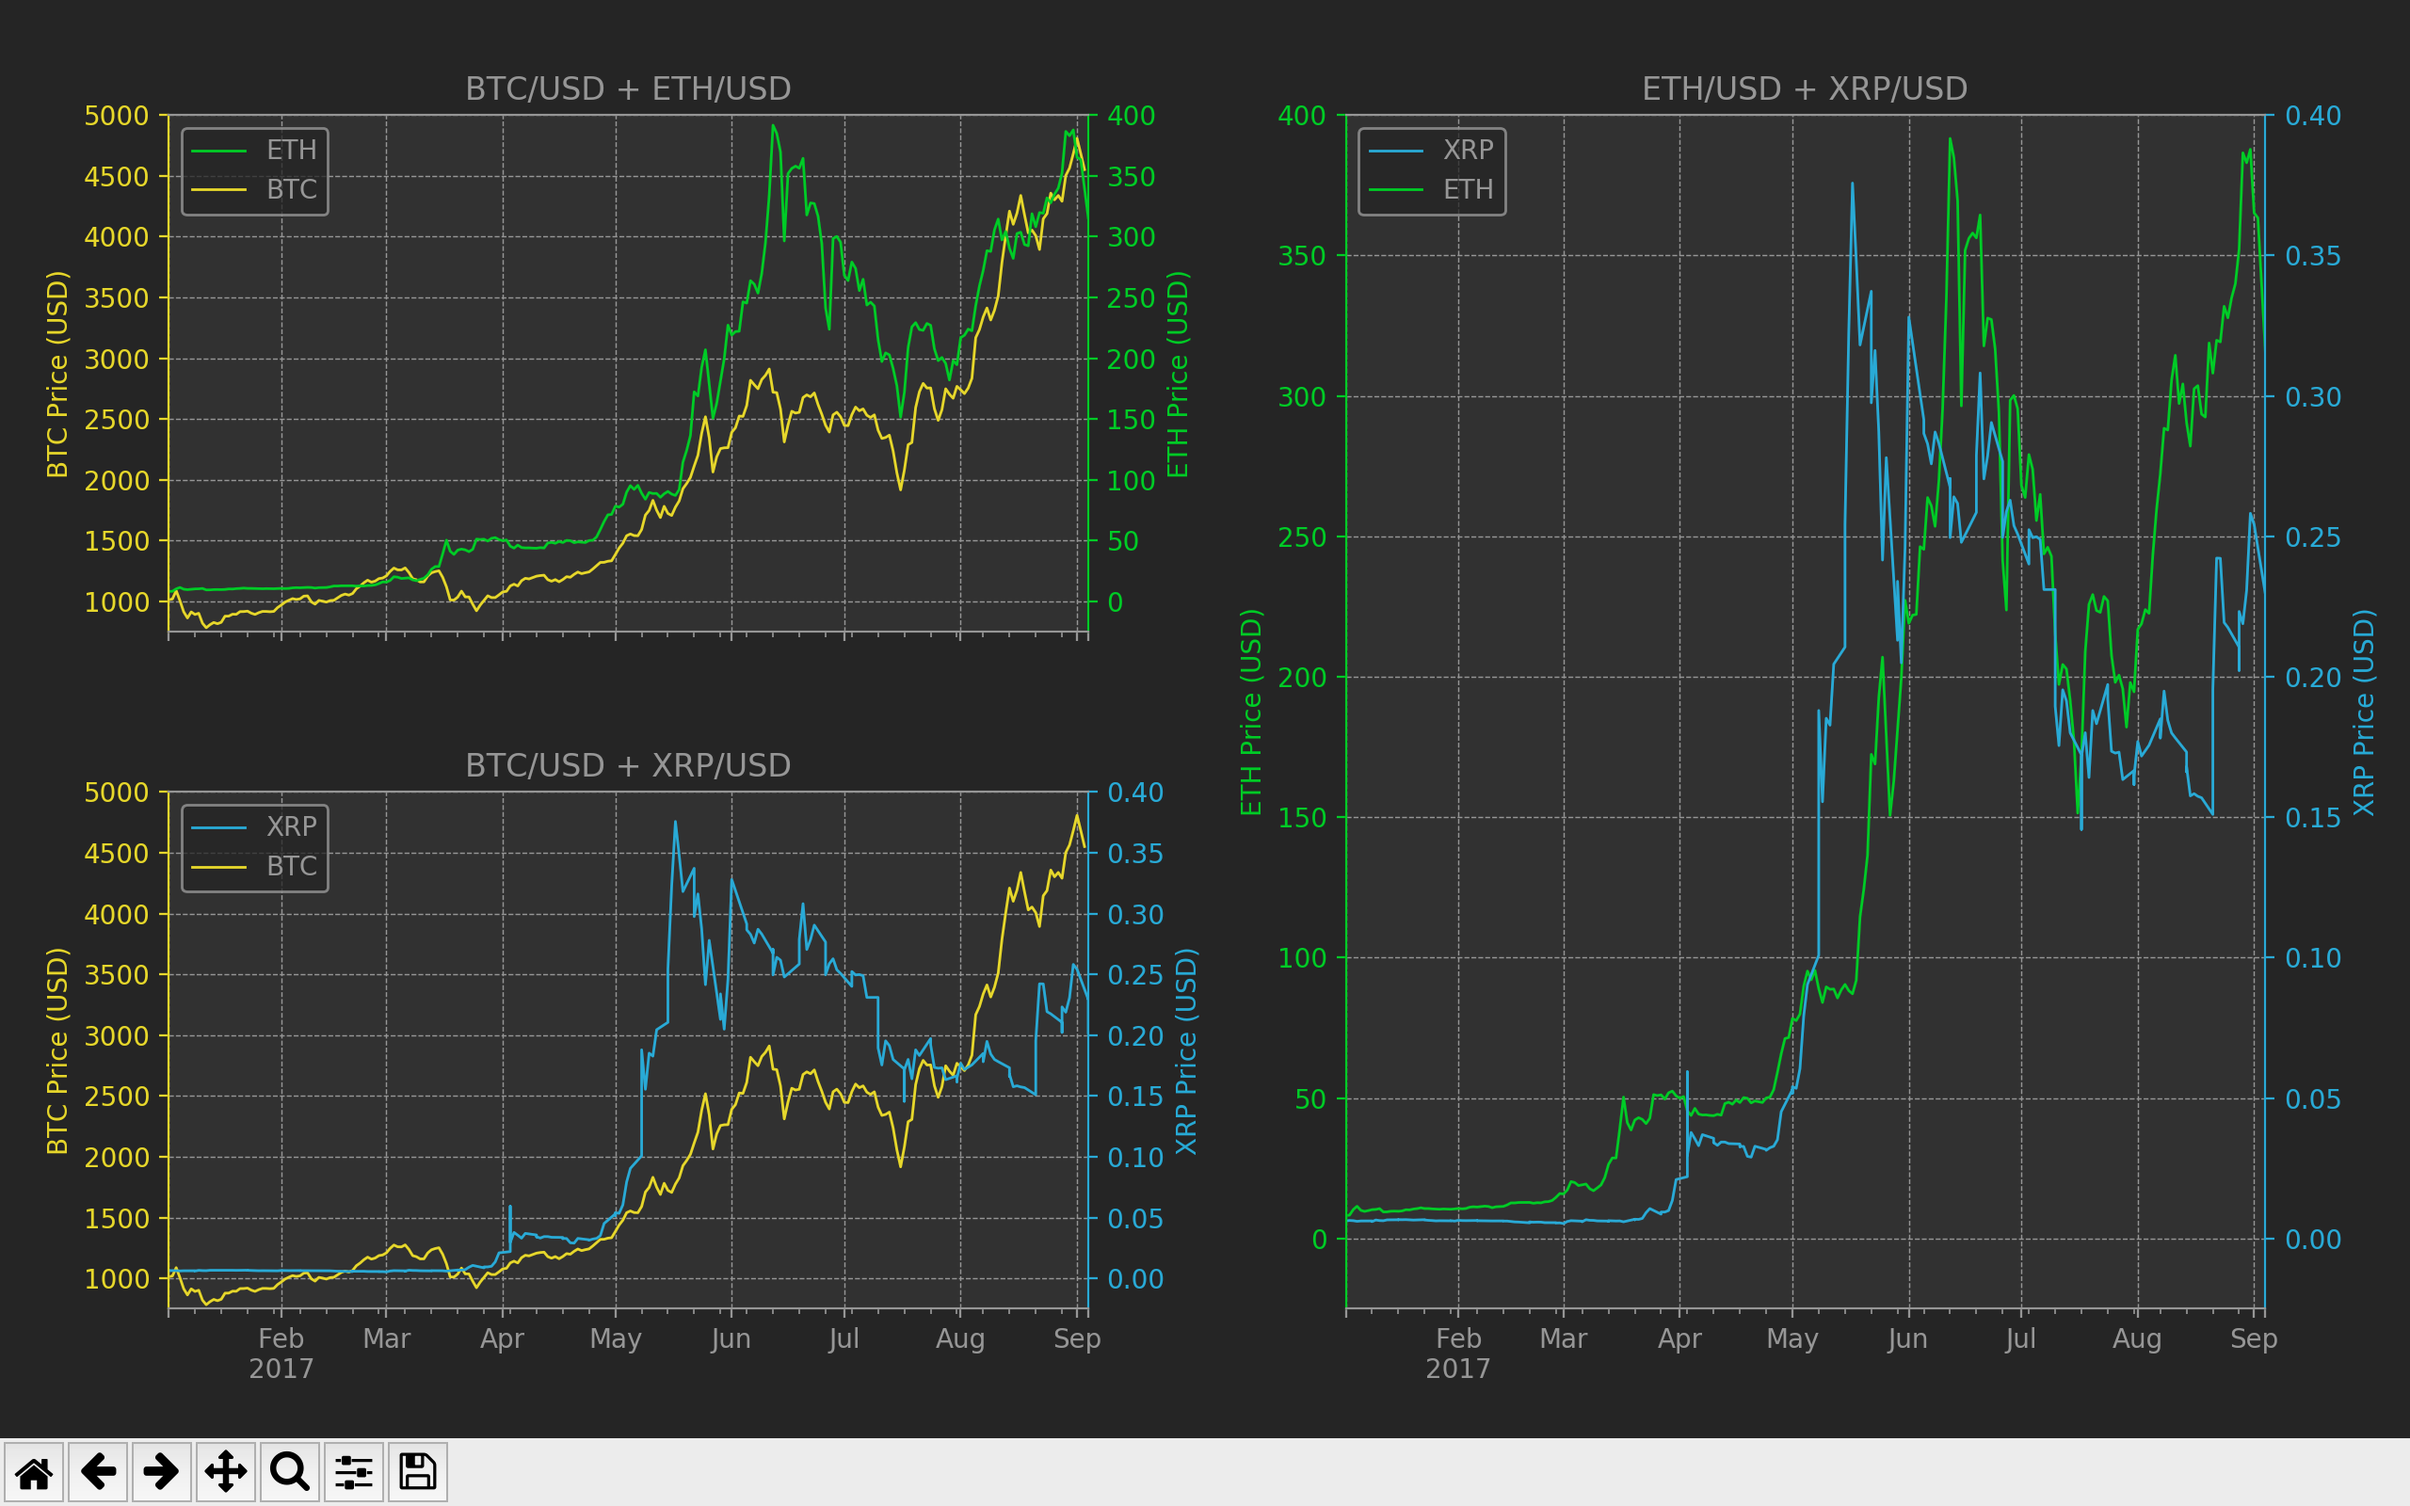
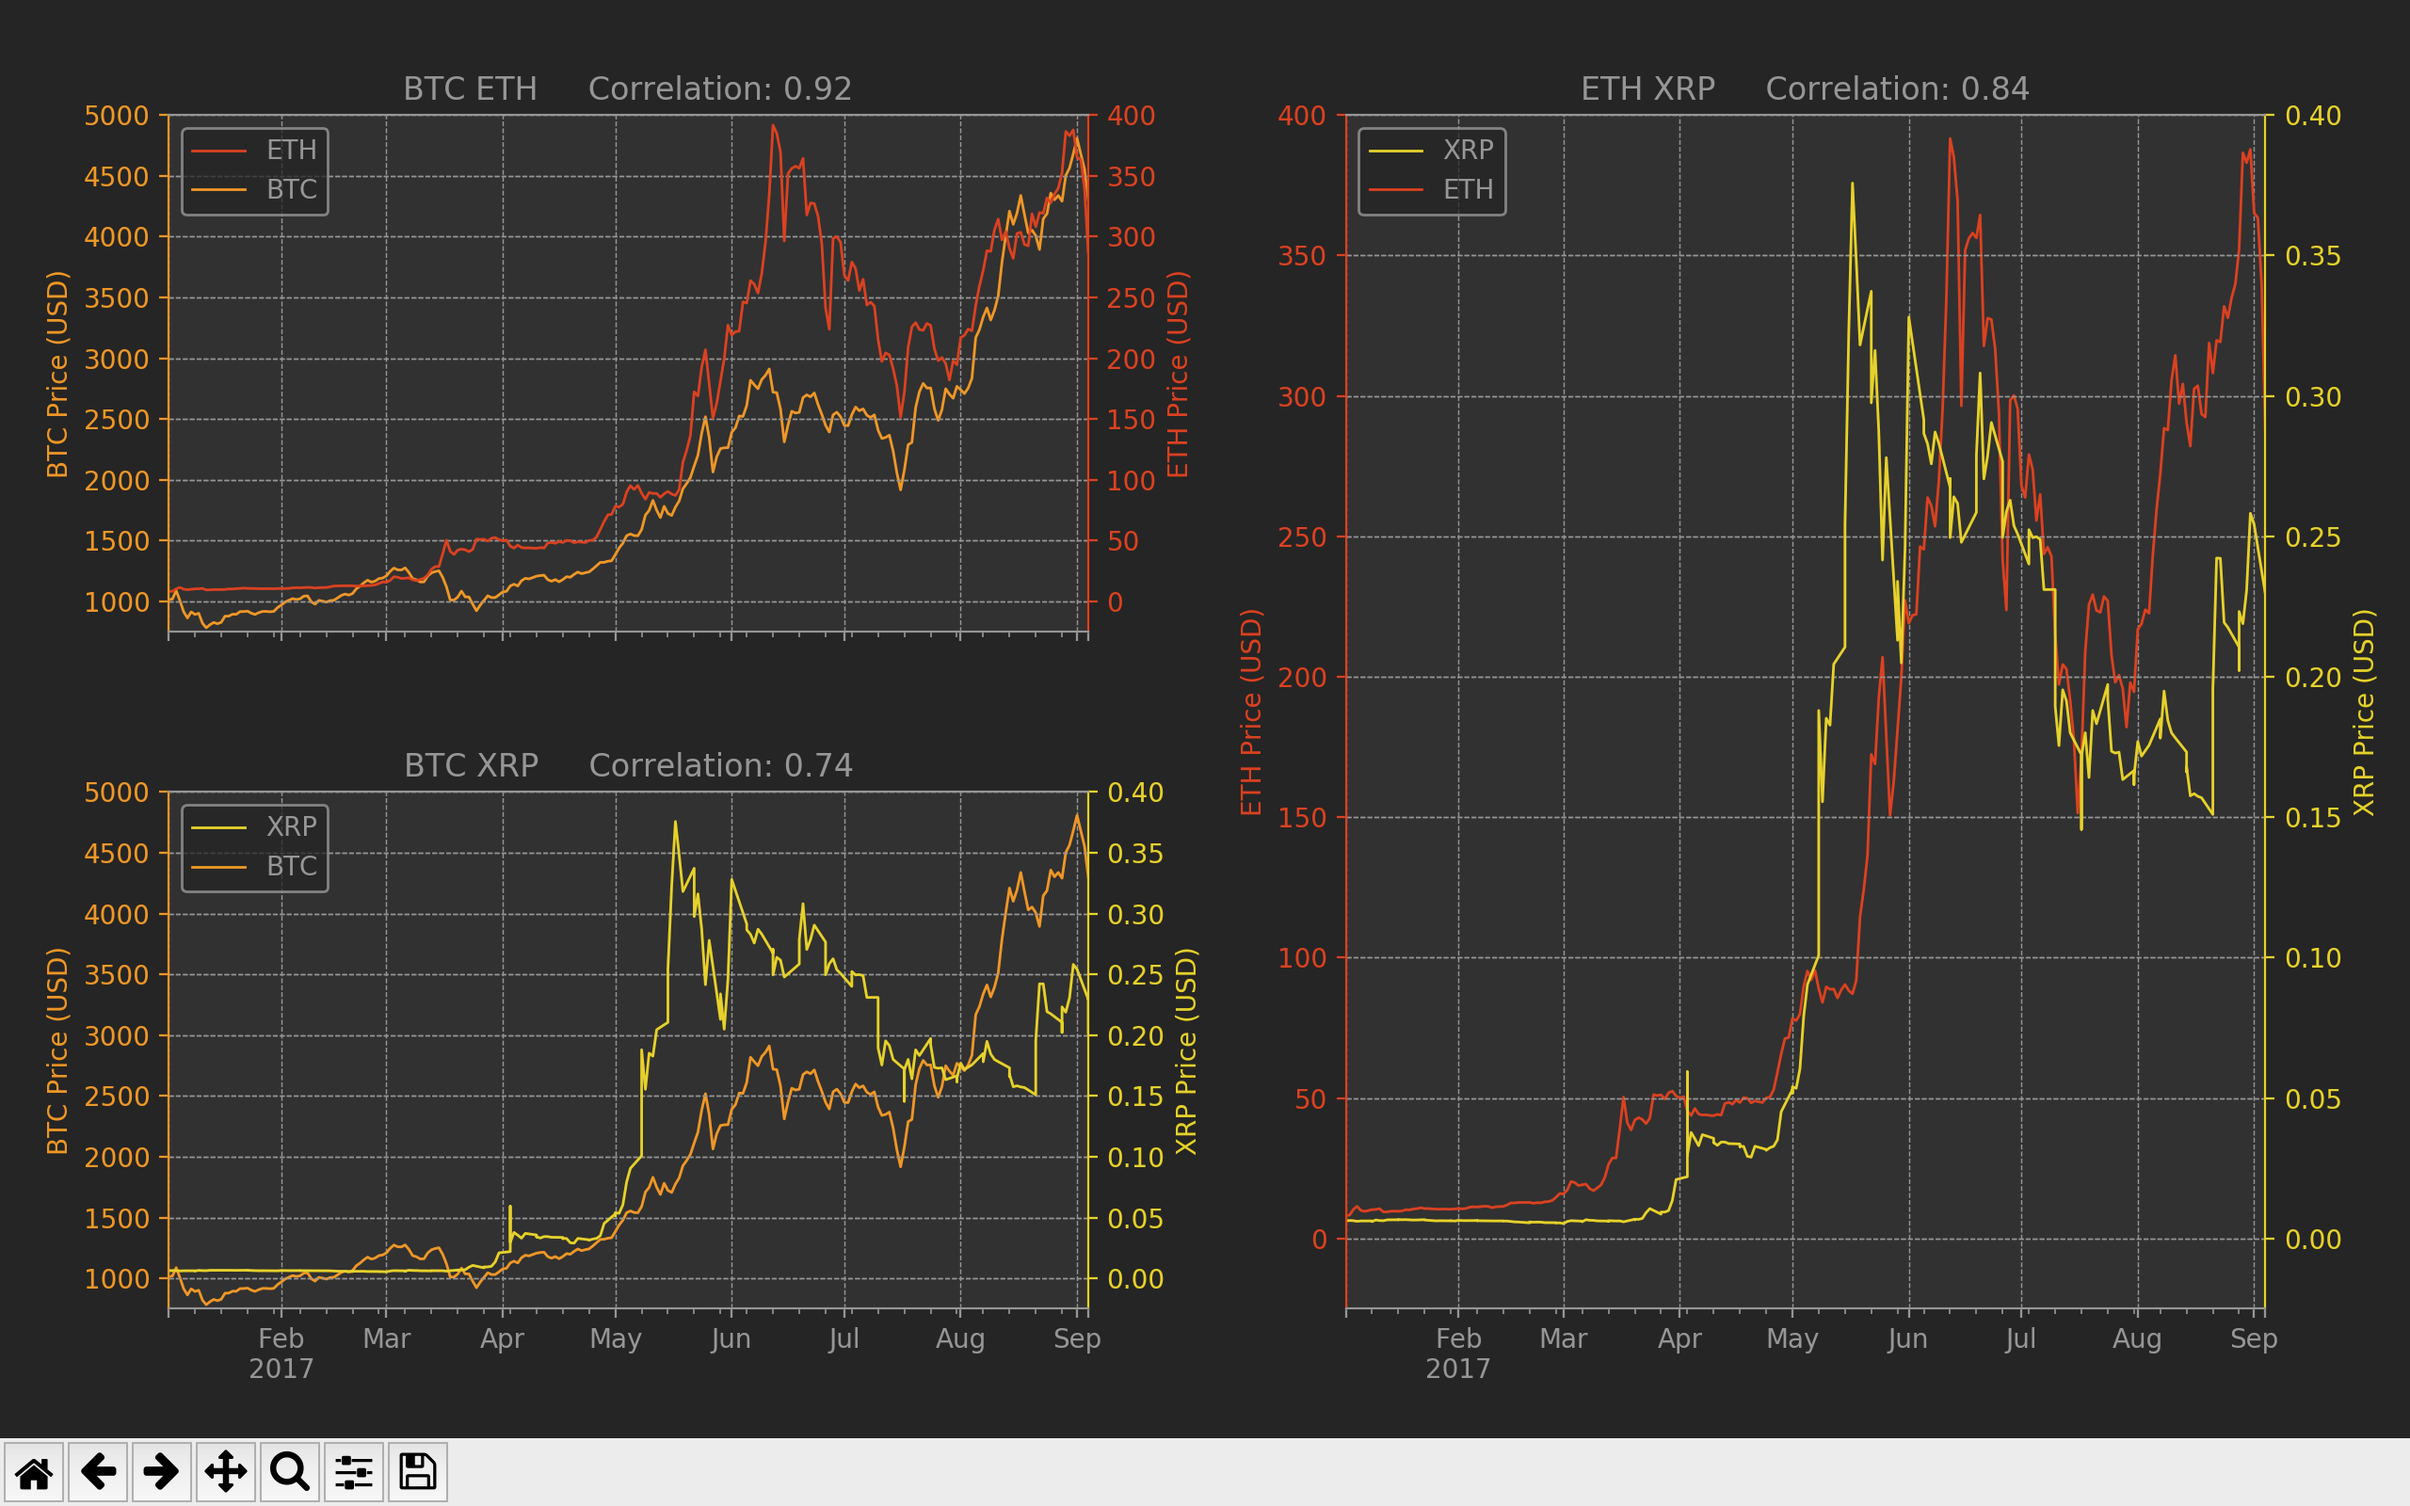
updated color palette

diff --git a/matplotlib/btc_eth_xrp.py b/matplotlib/btc_eth_xrp.py
@@ -10,7 +10,7 @@ import numpy as np
 import pandas as pd
 import matplotlib.pyplot as plt
 from matplotlib import style
-style.use('elip12')
+style.use('./elip12.mplstyle')
 import datetime as dt
 import requests
 
@@ -51,6 +51,10 @@ def get_data():
 
 	return (btc, xrp, eth)
 
+# shows correlation between two datasets
+def correlate(df1, df2):
+	return df1.corr(df2)
+
 # sets limits for y axis to make grid line up with ticks
 def ylim(ax, df):
 	if df.name is 'BTC':
@@ -66,7 +70,8 @@ def subplot(ax1, ax2, df1, df2, color1, color2):
 
 	# customize graphs
 	df1.plot(ax=ax1, color=color1, linewidth=1)
-	ax1.set_title(df1.name + '/USD + ' + df2.name + '/USD')#, color='#848484')
+	ax1.set_title(df1.name + ' ' + df2.name + '     Correlation: '
+				  + str(round(correlate(df1, df2), 2)))
 
 	ax1.tick_params(axis='x', which='both')
 	ax1.xaxis.label.set_visible(False)
@@ -88,7 +93,7 @@ def subplot(ax1, ax2, df1, df2, color1, color2):
 	ax2.tick_params(colors=color2, axis='y')
 	ylim(ax2, df2)
 
-	ax2.plot(0,0, label=df1.name, linewidth=1, color=color1)
+	ax2.plot(0, 0, label=df1.name, linewidth=1, color=color1)
 	leg = plt.legend(loc=2)
 
 # creates 3 subplots, and plots each combination of dfs on them, with
@@ -117,8 +122,10 @@ def plot(df1, df2, df3, color1, color2, color3):
 	# adjust parameters for optimal full screen view
 	plt.subplots_adjust(left=.07, bottom=.09, right=.94, top=.92,
 						wspace=.28, hspace=.31)
+	plt.draw()
 	plt.show()
 
 btc, xrp, eth = get_data()
-b_color, x_color, e_color = '#e1d300', '#1d99cf', '#00c80c'
-plot(btc, xrp, eth, b_color, x_color, e_color)
+d = {'green': '#60d515', 'red': '#d22b10', 'blue': '#1fa8e4',
+	 'yellow': '#e0cc05','orange': '#eb860d', 'magenta': '#b113ef'}
+plot(btc, xrp, eth, d['orange'], d['yellow'], d['red'])
